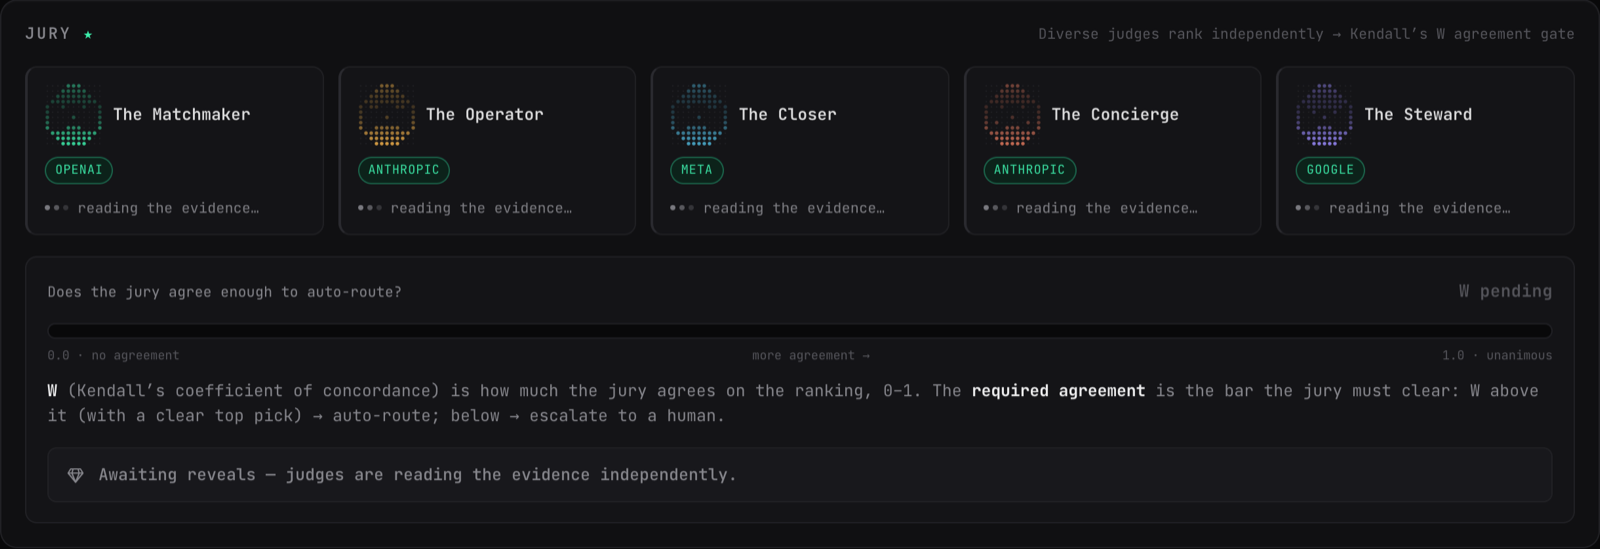
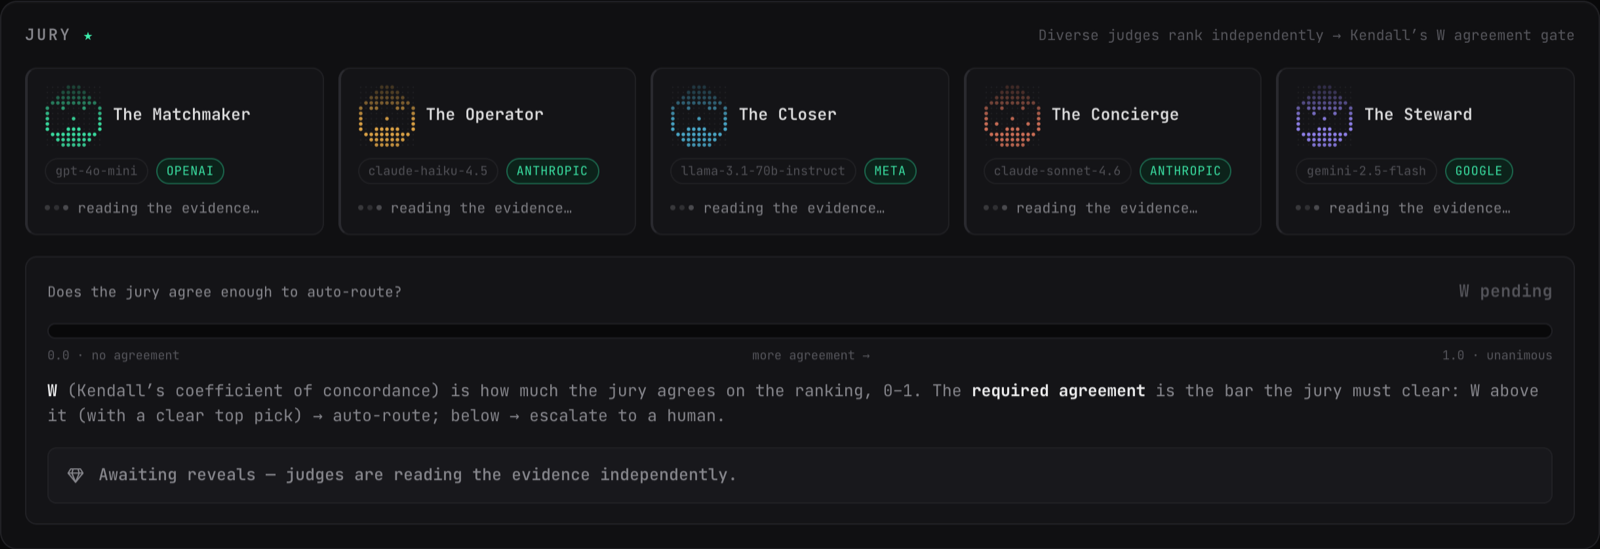
docs: drop the Model column from the judges table; refresh the jury image
Model names are now shown live on each judge's card (and set in the yaml), so
the hardcoded Model column in the README table was redundant and drift-prone —
remove it, keep Judge / lens / family. Point the "overridable" note at
relay.config.yaml, and refresh the jury screenshot to the current app (avatars
+ model/provider chips).

diff --git a/README.md b/README.md
@@ -115,15 +115,15 @@ The five judges run across **different model families** because the diversity is
 
 Five lenses, deliberately spanning **four model families** so their agreement means something:
 
-| Judge | The lens it argues from | Model | Family |
-|---|---|---|---|
-| **The Matchmaker** | the best technical fit for the job, even out-of-network | `gpt-4o-mini` | OpenAI |
-| **The Operator** | can the partner *actually deliver*? — capacity & reliability | `claude-haiku-4.5` | Anthropic |
-| **The Closer** | the odds the referral converts to a booked job | `llama-3.1-70b` | Meta |
-| **The Concierge** | protecting the customer's experience & the relationship | `claude-sonnet-4.6` | Anthropic |
-| **The Steward** | defending in-network brand standards & low-risk choices | `gemini-2.5-flash` | Google |
+| Judge | The lens it argues from | Family |
+|---|---|---|
+| **The Matchmaker** | the best technical fit for the job, even out-of-network | OpenAI |
+| **The Operator** | can the partner *actually deliver*? — capacity & reliability | Anthropic |
+| **The Closer** | the odds the referral converts to a booked job | Meta |
+| **The Concierge** | protecting the customer's experience & the relationship | Anthropic |
+| **The Steward** | defending in-network brand standards & low-risk choices | Google |
 
-Each lens is an OCEAN / Big-Five prior that derives that judge's criteria weights in code — never role-played in the prompt. Model ids are OpenRouter slugs, overridable via `JUDGE_MODELS`; with no key every judge falls back to its deterministic weights. Their built-in tension is the point: the Matchmaker's "best fit" pulls out-of-network while the Steward defends in-network, and the Closer's "will it convert" trades off against the Operator's "can they deliver" — so when they *do* concur, that agreement is real signal.
+Each lens is an OCEAN / Big-Five prior that derives that judge's criteria weights in code — never role-played in the prompt. Each judge's specific model is shown live on its card and set in `relay.config.yaml` (swap any of them there and reload); with no key every judge falls back to its deterministic weights. Their built-in tension is the point: the Matchmaker's "best fit" pulls out-of-network while the Steward defends in-network, and the Closer's "will it convert" trades off against the Operator's "can they deliver" — so when they *do* concur, that agreement is real signal.
 
 ![The live jury — five model-diverse judges, each a dot-matrix persona, reading the evidence independently before Kendall's W gates the routing](docs/assets/jury.png)
 